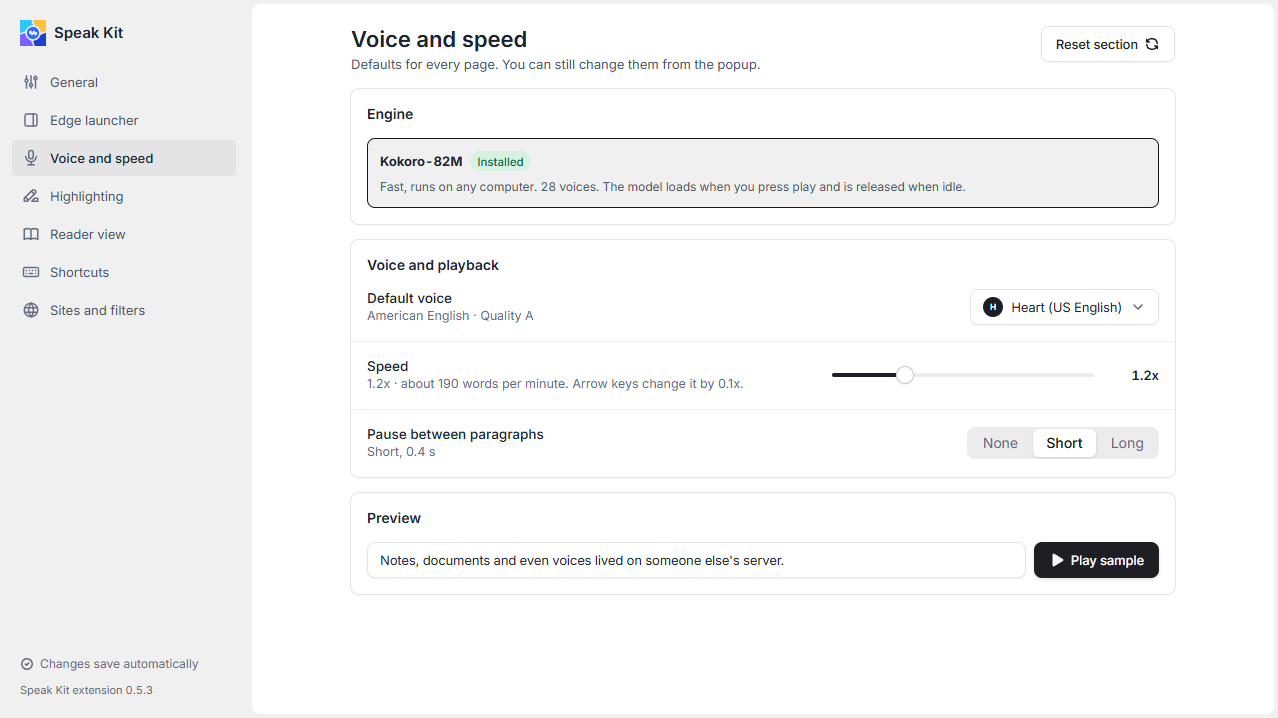
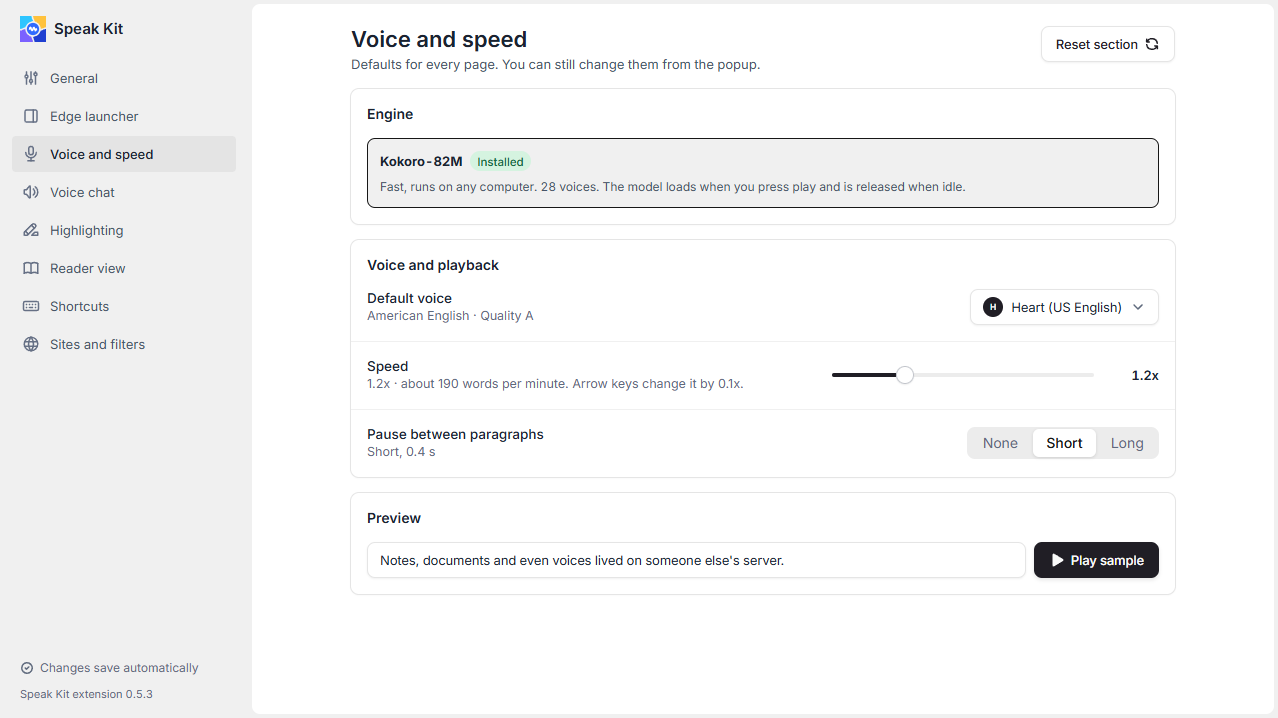
docs: describe voice chat, dictation and the other new features; refresh screenshots

diff --git a/README.md b/README.md
@@ -4,17 +4,33 @@
 
 <h1 align="center">Speak Kit</h1>
 
-<p align="center">A private, local text-to-speech reader for Chrome and desktop.</p>
+<p align="center">Read pages aloud, dictate into any app, or talk to a page. For Chrome and desktop.</p>
 
 <p align="center">
   <a href="https://github.com/NourEldinShobier/speak-kit/actions/workflows/ci.yml"><img src="https://github.com/NourEldinShobier/speak-kit/actions/workflows/ci.yml/badge.svg" alt="CI"></a>
 </p>
 
-Select text in Chrome, press a key, and a natural voice reads it aloud while the sentence and word being spoken are highlighted. The voice runs on your computer: no account, no cloud, no tracking.
+Speak Kit is a set of speaking tools for Chrome and your desktop: have pages read to you, dictate into any app, and talk to a page out loud.
 
-- **Chrome extension**: reads selections and whole pages, with a floating player, reader view and a side panel queue.
-- **Desktop app**: runs the local voice server, adds global shortcuts, a mini player, a library for PDF, EPUB, DOCX, Markdown and text files, and MP3 or WAV export.
-- **Voices**: 28 Kokoro voices, running on the CPU of any computer.
+<p align="center">
+  <img src="docs/screenshots/voice-chat.png" alt="A news article in Chrome with the voice chat pill at the top: a mute button, a dot grid showing the answer being spoken, and a stop button" width="720">
+</p>
+
+## Features
+
+**Voice chat.** Press the Talk button on a page, or Alt+Shift+V, and ask about it out loud. A small pill at the top of the page shows when it is listening, thinking or speaking. It uses OpenAI's Realtime API with your own key, and on request it can look at your screen.
+
+**Read aloud.** Select text in Chrome, press a key, and a natural voice reads it while the current sentence and word are highlighted. The Chrome extension reads selections and whole pages, with a floating player, a reader view and a side panel queue. 28 Kokoro voices run on the CPU of any computer.
+
+**Dictation (Windows).** Hold Right Ctrl in any app, speak, release, and the text is pasted where your cursor is. English filler words are removed, your own replacements apply, each app can have its own mode, and past dictations are kept in a history. Speech recognition runs on your computer with Whisper or Parakeet models.
+
+**Library.** The desktop app opens PDF, EPUB, DOCX, Markdown and text files, reads them with word highlighting, and exports MP3, WAV and captions (SRT, WebVTT).
+
+**Transcripts.** Turn audio files and recorded meetings into searchable text on your computer.
+
+**Command line and MCP.** `speakkit` reads text aloud, transcribes files and changes settings from a terminal, and an MCP server lets other tools use it.
+
+**Everywhere.** Global shortcuts, a mini player, a command palette, and an interface in English, Spanish, German, French and Arabic.
 
 <p align="center">
   <img src="docs/screenshots/page-highlight.png" alt="A web page being read aloud with the current sentence and word highlighted, and the floating player at the bottom" width="720">
@@ -34,14 +50,22 @@ Select text in Chrome, press a key, and a natural voice reads it aloud while the
 Download from the [latest release](https://github.com/NourEldinShobier/speak-kit/releases/latest):
 
 - **Windows:** `Speak-Kit-Setup-<version>.exe` (installer, updates itself) or `Speak-Kit-<version>-portable.exe`. The builds are not code-signed, so SmartScreen shows "unknown publisher" the first time: choose **More info**, then **Run anyway**.
-- **macOS:** the `.dmg` for your chip (Apple Silicon or Intel). The app is not signed: right-click it in Applications, choose **Open**, then **Open** again. It is built for macOS but tested on Windows only.
+- **macOS:** the `.dmg` for your chip (Apple Silicon or Intel). The app is not signed: right-click it in Applications, choose **Open**, then **Open** again. It is built for macOS but tested on Windows only, and dictation is untested on a Mac.
 - **Chrome extension:** unzip `speakkit-extension-<version>.zip`, open `chrome://extensions`, turn on **Developer mode**, choose **Load unpacked** and pick the folder.
 
 On first start the app downloads the voice model (about 180 MB) and walks you through setup. To connect the extension, copy the token in the app (Browser) and paste it in the extension under Options, General, Pairing token.
 
+Dictation downloads a speech model when you first turn it on (about 550 MB for the default, Whisper large-v3 turbo). It needs a graphics card; on a computer without one, choose the smaller Parakeet model, which handles English and German.
+
+## Voice chat
+
+Voice chat needs an OpenAI API key. Add it in the app under Voice chat. The key is stored encrypted by your operating system and is never given to the extension; the extension receives a short-lived session secret from the app for each conversation. Start a conversation from the Talk button on a page or with Alt+Shift+V.
+
 ## Privacy
 
-Text is turned into speech on your computer. The local server listens on `127.0.0.1` only and needs a token. The only network traffic is the one-time model download and the update check against GitHub Releases, which you can turn off in Settings, About. No analytics, no accounts.
+Reading aloud, dictation and transcripts run on your computer. The local server listens on `127.0.0.1` only and needs a token. Network traffic is the model downloads and the update check against GitHub Releases, which you can turn off in Settings, About. No analytics, no accounts.
+
+Voice chat is the exception, and only while a conversation is open: your microphone audio, the text of the page and its address are sent to OpenAI and billed to your key. Screen access is off until you allow it for a window or the whole screen.
 
 ## Contributing
 
